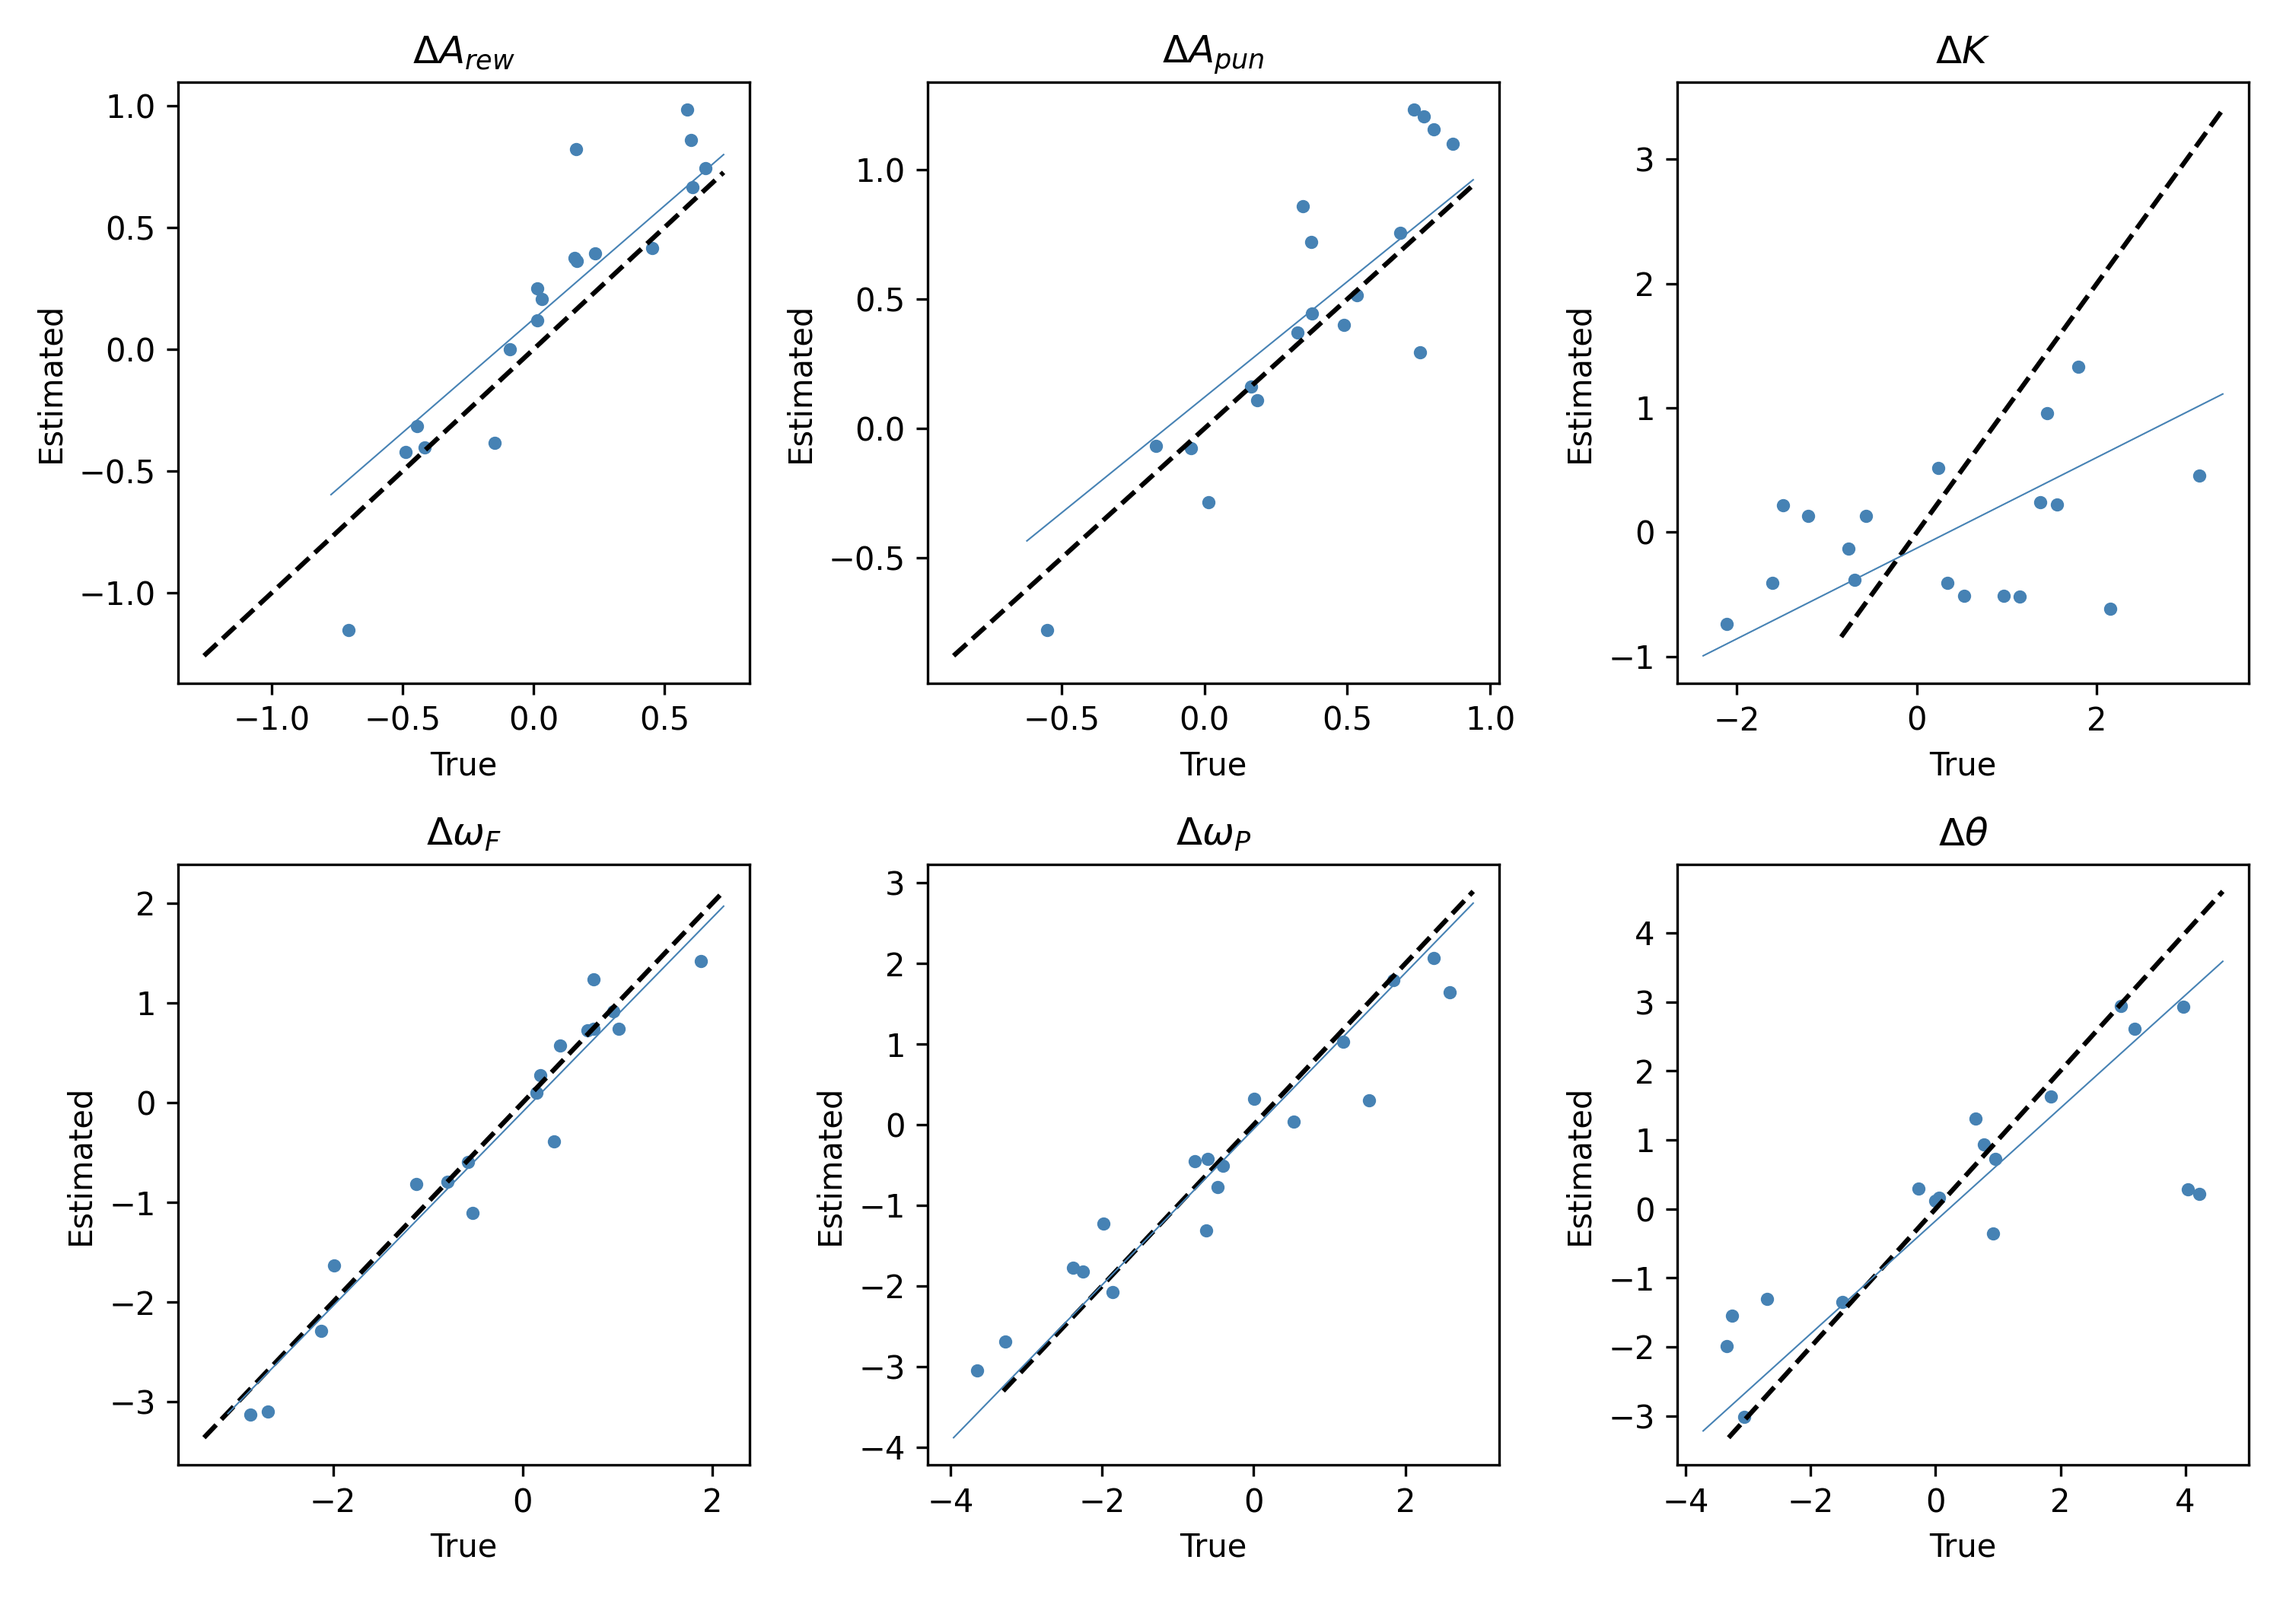
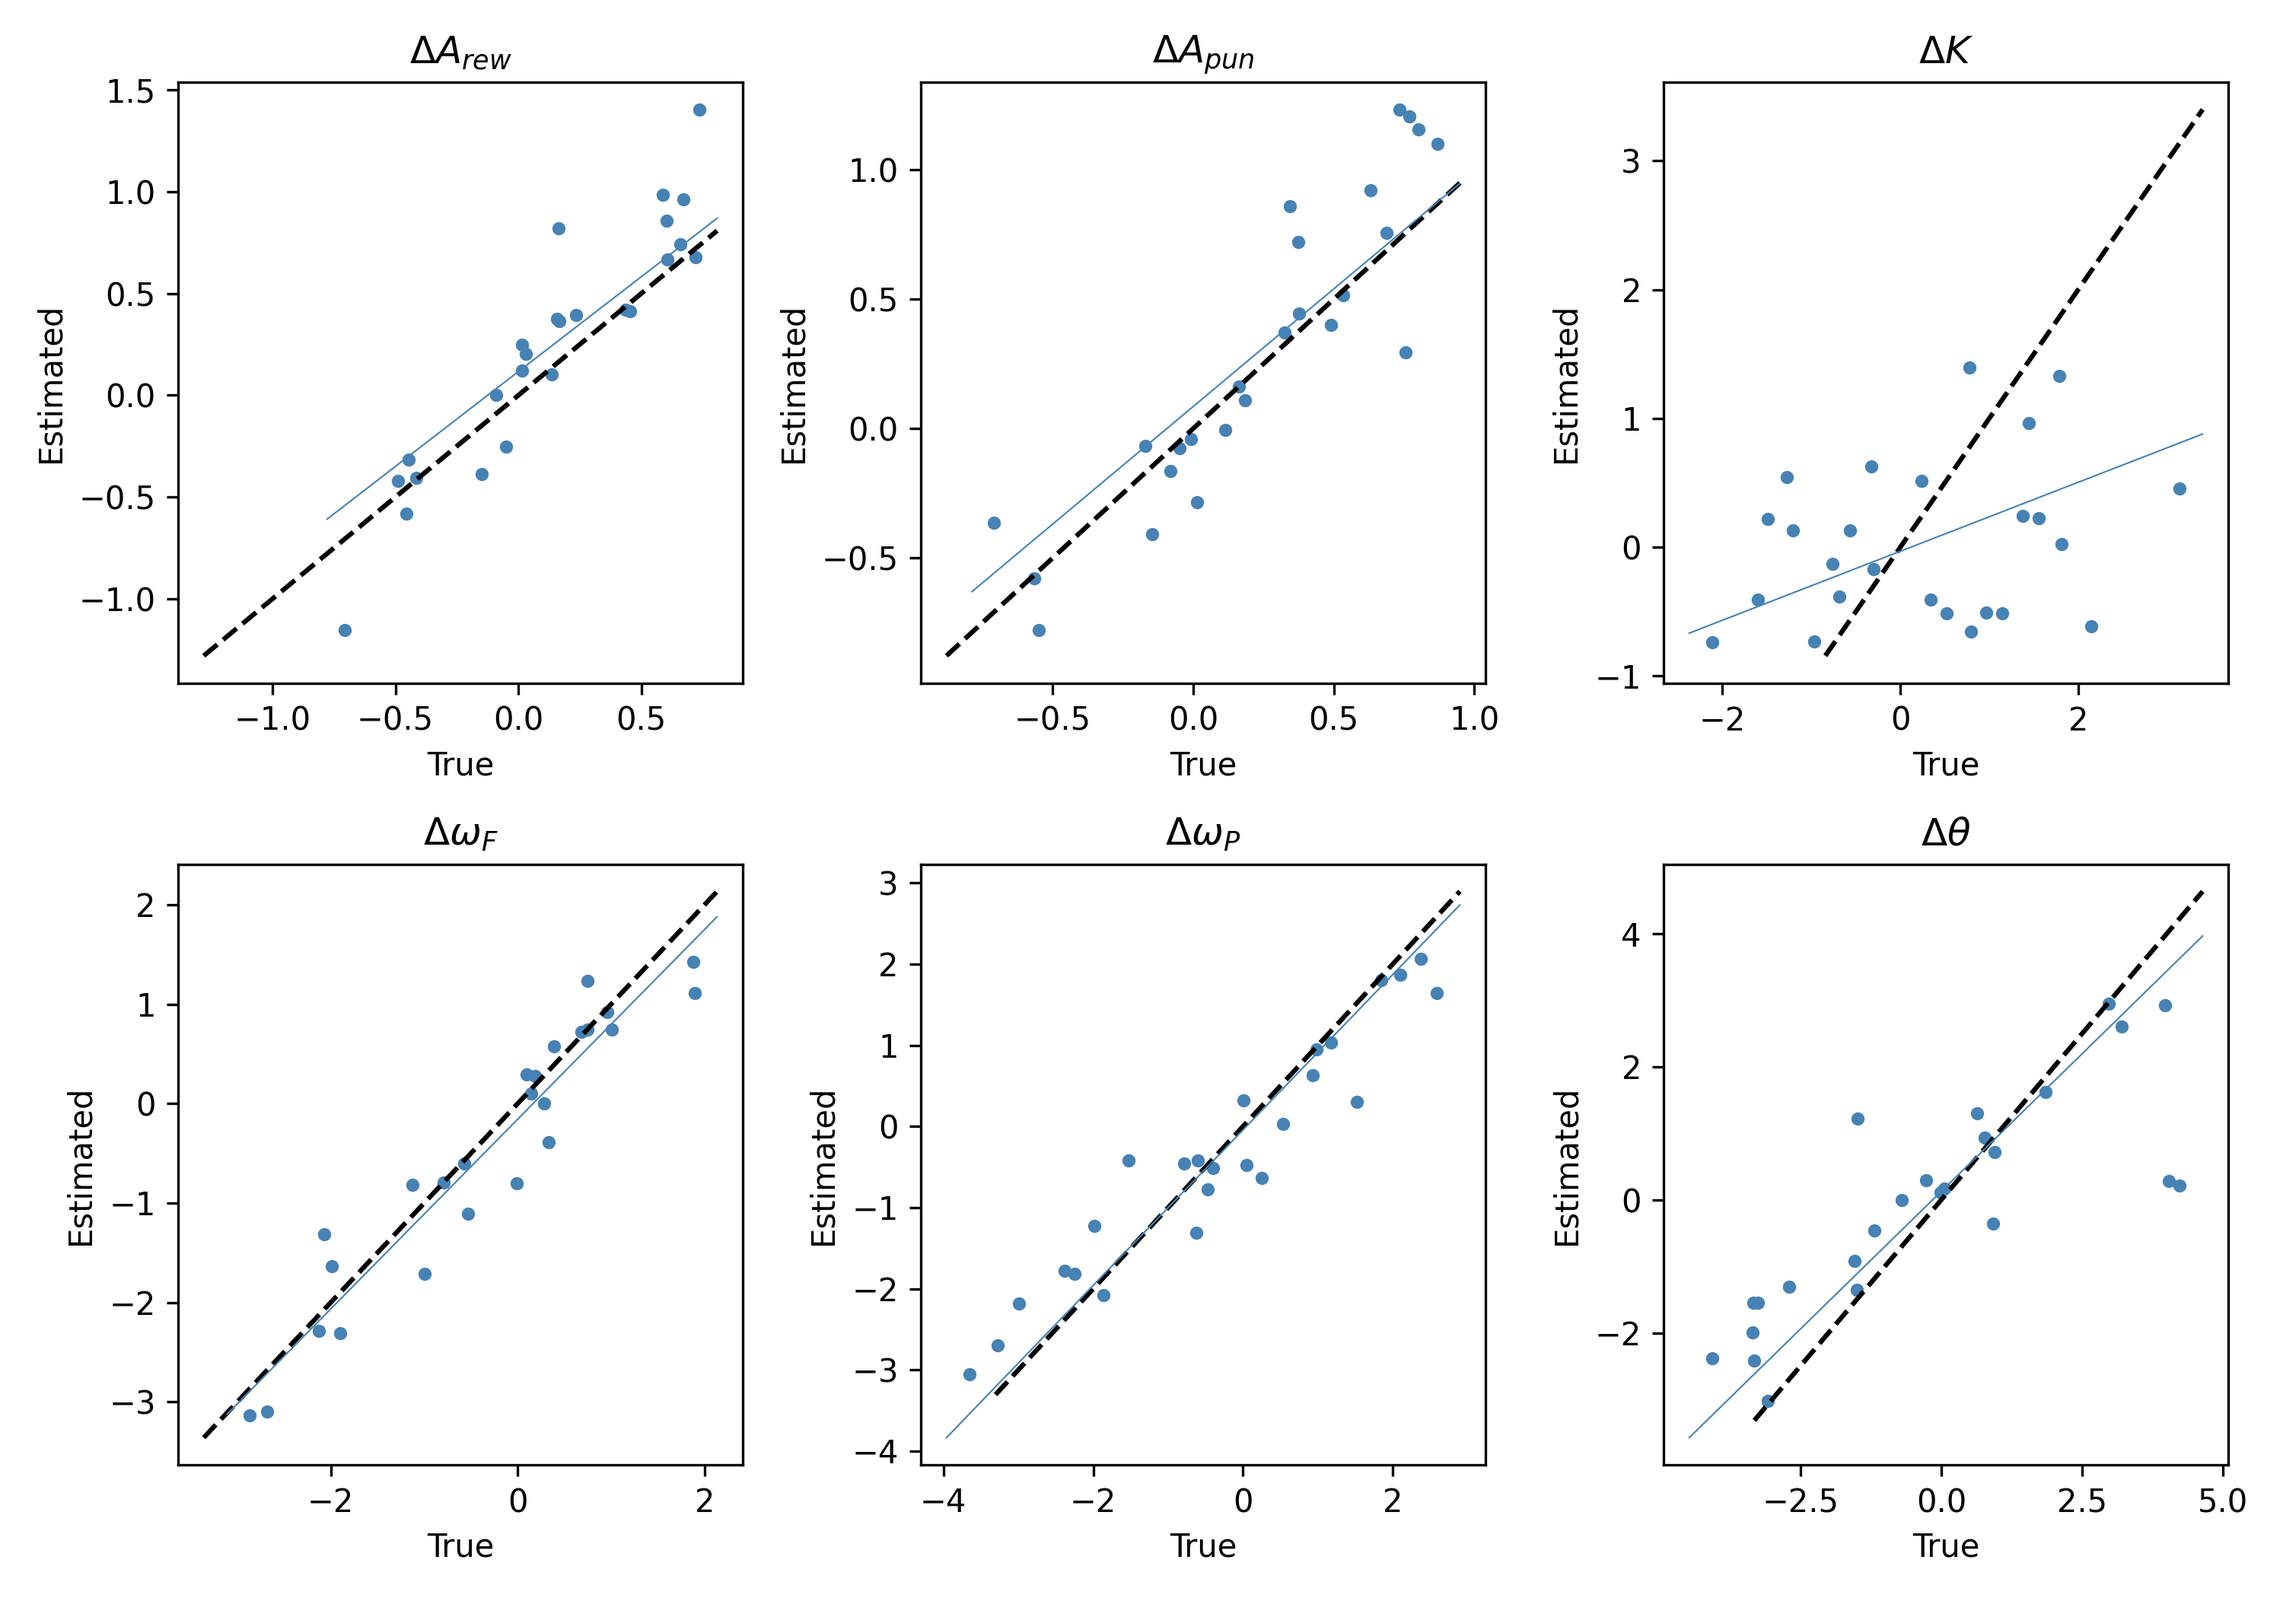
allow for plotting with empty files in fit dir

diff --git a/recovery/plot_group_lvl.py b/recovery/plot_group_lvl.py
@@ -38,10 +38,16 @@ def load_recovered(path : Path) -> dict:
 
     # loop over all csv files in the simulated folder
     for f in path.glob("*.csv"):
-        data_tmp = pd.read_csv(
-            f,
-            usecols = lambda x: x.startswith("y_pred") or x.startswith("delta") 
-        )
+
+        try:
+            data_tmp = pd.read_csv(
+                f,
+                usecols = lambda x: x.startswith("y_pred") or x.startswith("delta") 
+            )
+        except pd.errors.EmptyDataError:
+            print(f"File {f} is empty")
+            continue
+
         
         group1 = int(re.split("_", f.stem)[-2])
         group2 = int(re.split("_", f.stem)[-1])
